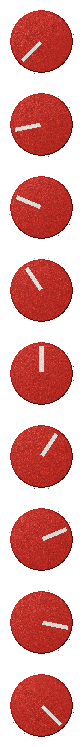
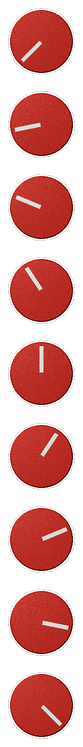
Put the knob supersampling back
Turned off, the rim and pointer stair-step and the grain goes harsh, because
the noise field is no longer averaged down. Against a backplate that is itself
smooth the knobs then read as a different medium pasted onto it - Ronald:
"as the backplate is also antialiased or smoothened we need to reintroduce a way
to achieve the same visual effect". The backplate sets the standard.

2 rather than 3: measured at the sizes these are actually drawn, they are
indistinguishable, and 3 costs more than twice the render time.

Worth keeping straight, since it was the reason for turning it off: supersampling
was never what caused the banding at grazing angles. That is the flutes
themselves against an environment too simple to give each land a gradient.

diff --git a/tools/make-assets.py b/tools/make-assets.py
@@ -51,12 +51,15 @@ STEPS = 9
 GAIN_STEPS = STEPS
 FREQ_STEPS = STEPS
 
-# Supersampling for the knob renders. OFF at Ronald's call, 2026-08-28.
-# It does smooth the silhouette - at 1 the rim and the pointer stair-step
-# visibly, see shots/weteq-supersampling.png - but it is not what caused the
-# banding he was chasing, and he prefers the harder, grainier result. Set this
-# back to 2 to restore it; nothing else needs to change.
-SUPERSAMPLE = 1
+# Supersampling for the knob renders. Back ON after trying it off: at 1 the rim
+# and pointer stair-step, and the grain goes harsh because the noise field is no
+# longer averaged - against a backplate that is itself smooth, the knobs read as
+# a different medium. The backplate sets the standard the knobs have to meet.
+#
+# 2 and 3 are visually indistinguishable at the sizes these are drawn, so 2 it
+# is. Supersampling was never the cause of the banding at grazing angles; that
+# is the flutes plus an over-simple environment.
+SUPERSAMPLE = 2
 
 CAP_SATURATION = 1.30   # how far past the painted colour the caps are pushed
 
